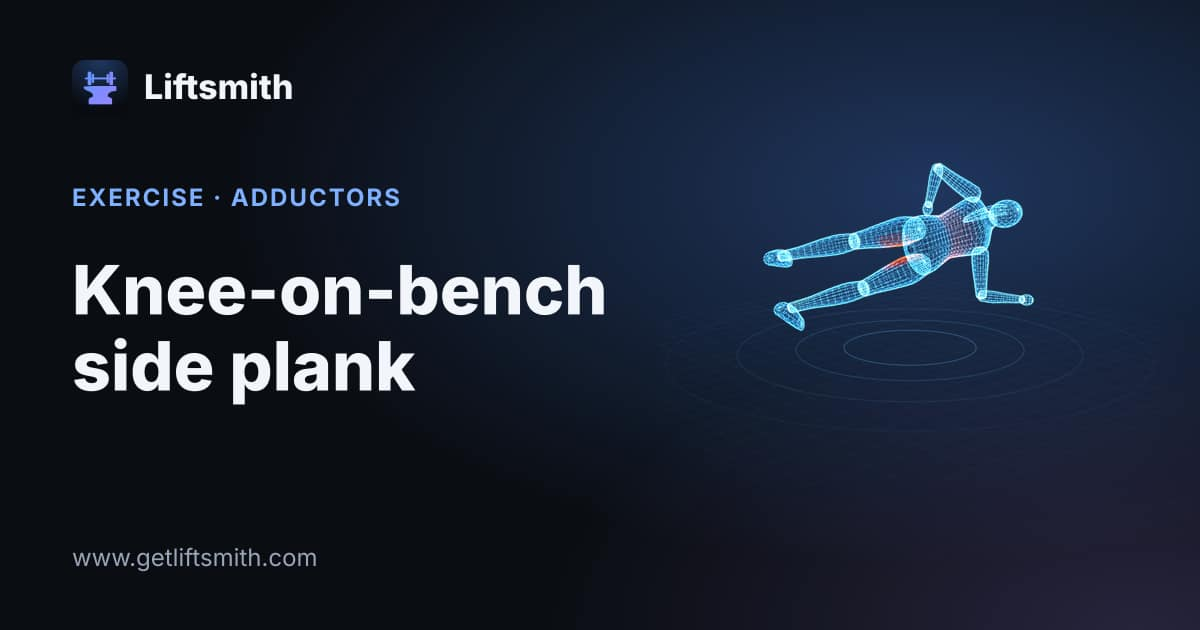
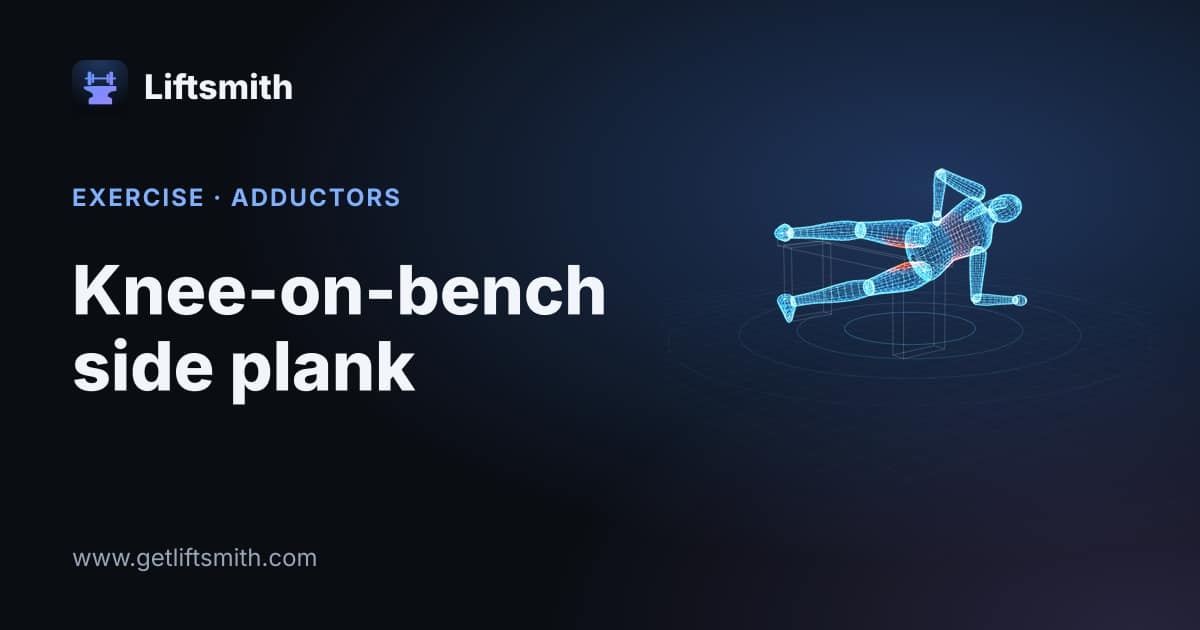
Copenhagen planks lie on a bench: top leg on the pad, hips lift into a line
Both Copenhagen planks played a plain side plank with no bench. A new
copenhagen motion lies on the left forearm with the top ankle (or knee, for
the short lever) on a flat bench drawn across the body; the hips lift from
the floor into a straight line while the bottom leg rises to the underside
of the pad. Redrew both stills and link previews, emptied the LATER list in
swapLooks.test.ts and added a test that the contact stays on the pad.

Claude-Session: https://claude.ai/code/session_01AL1UF9AFWKs291fhJo2agj

Changed region(s): [[0.6167, 0.2413, 0.8633, 0.5429], [0.74, 0.5429, 0.7708, 0.573]]

diff --git a/src/lib/demo/motions.ts b/src/lib/demo/motions.ts
@@ -12,6 +12,7 @@ import {
   mul,
   norm,
   rad,
+  solve,
   sub,
   TEMPO,
   V,
@@ -1741,6 +1742,88 @@ function sidePlank(o: { lift?: boolean }): Motion {
       };
     },
     roll: (d) => -90 + (o.lift ? lerp(6, 16, d) : 14 + 1.5 * d),
+  };
+}
+
+/**
+ * Copenhagen plank: a side plank on the bottom forearm with the top leg on a flat bench, the ankle on
+ * the pad (`knee` puts the knee there instead, the short lever). The hips start low and lift into a
+ * straight line while the bottom leg rises to the underside of the pad. Drawn on its left side like the
+ * side-lying moves (roll -90, so the pose's z is height), with the bench across the body under the top
+ * leg and the bottom leg passing under it. The foot or knee stays put on the pad; the shoulder rides a
+ * little over the elbow as the hips drop.
+ */
+function copenhagen(o: { knee?: boolean } = {}): Motion {
+  const benchH = 0.45,
+    padT = 0.07;
+  const pose = (B: Body, d: number): Pose => {
+    const S = 0; // the shoulder line's height
+    const elbowZ = S - (B.shW + B.upper * 0.97);
+    const floor = elbowZ - 0.05;
+    const top = floor + benchH;
+    const leg = legMax(B);
+    // the contact on the pad (ankle or knee) and how far it is from the hip joint
+    const reachC = o.knee ? B.thigh : leg;
+    const cZ = top + (o.knee ? 0.06 : 0.05);
+    // the straight line at the top: shoulder, hip and contact in one line
+    const uz = (cZ - B.hipW - S) / (B.torso + reachC);
+    const uy = -Math.sqrt(1 - uz * uz);
+    const shY = standY(B, 0) + B.torso;
+    const hipTop = V(0, shY + uy * B.torso, S + uz * B.torso);
+    const c = V(0, hipTop[1] + uy * reachC, cZ);
+    // the hips sag toward the floor at d = 0 and lift into the line at d = 1
+    const hipZ = lerp(floor + 0.14 + B.hipW, hipTop[2], d);
+    const dzc = cZ - (hipZ + B.hipW);
+    const hipY = c[1] + Math.sqrt(Math.max(0.01, reachC * reachC - dzc * dzc));
+    const hip = V(0, hipY, hipZ);
+    const dzs = S - hipZ;
+    const sh = V(0, hipY + Math.sqrt(Math.max(0.01, B.torso * B.torso - dzs * dzs)), S);
+    // the top leg: the ankle on the pad, or the shin lying on past the knee
+    const ankleR = o.knee ? add(c, mul(norm(V(0, -1, 0.05)), B.shin)) : c;
+    // bend the knee toward the pad's contact, so it lands right on it whatever the hips do
+    const hipR = V(0, hipY, hipZ + B.hipW);
+    // the bottom leg: low by the floor, then up under the pad
+    const hipL = V(0, hipY, hipZ - B.hipW);
+    const footZ = lerp(floor + 0.07, top - padT - 0.06, d);
+    const dzl = hipL[2] - footZ;
+    const ankleL = V(0, hipY - Math.sqrt(Math.max(0.01, (leg * 0.99) ** 2 - dzl * dzl)), footZ);
+    return {
+      hip,
+      sh,
+      ankle: per(ankleL, ankleR),
+      kneePole: per(V(1, 0, 0), o.knee ? sub(c, lerpV(hipR, ankleR, 0.5)) : V(1, 0, 0)),
+      foot: 20,
+      // the bottom forearm flat on the floor under the shoulder, the top hand on the hip
+      hand: per(V(B.fore * 0.92, shY + 0.02, elbowZ), V(0.03, hipY + 0.08, hipZ + B.hipW + 0.12)),
+      elbowPole: per(V(0, 0, -1), V(-0.4, 0, 1)),
+      headBlend: 0,
+    };
+  };
+  return {
+    phases: TEMPO.liftFirst("Lift the hips · 1s", "Lower · 2s", "Low", "Hold"),
+    load: "none",
+    stance: 0.05,
+    pose,
+    roll: () => -90,
+    props: (B) => {
+      // where the floor really is: the lowest joint over the rep, as placement() finds it
+      let low = Infinity;
+      for (let i = 0; i <= 8; i++) {
+        const J = solve(pose(B, i / 8), B, { stance: 0.05, grip: 0.25 }) as unknown as Record<string, Vec>;
+        for (const k of Object.keys(J)) if (k !== "headDir" && J[k]) low = Math.min(low, J[k]![2]);
+      }
+      const floor = low - 0.05;
+      const p = pose(B, 1);
+      const top = p.sh[2] - (B.shW + B.upper * 0.97) - 0.05 + benchH;
+      const y = o.knee ? (p.ankle as { R: Vec }).R[1] + B.shin * 0.97 : (p.ankle as { R: Vec }).R[1];
+      const legH = top - padT - floor;
+      // a flat bench across the body: the pad under the top leg, a leg at each end clear of the bottom leg
+      return [
+        { kind: "box", at: V(0, y, top - padT / 2), size: V(1.1, 0.3, padT) },
+        { kind: "box", at: V(-0.48, y, floor + legH / 2), size: V(0.08, 0.26, legH) },
+        { kind: "box", at: V(0.48, y, floor + legH / 2), size: V(0.08, 0.26, legH) },
+      ];
+    },
   };
 }
 
@@ -6631,7 +6714,7 @@ const MOTIONS: Record<string, () => Motion> = {
   "hip-thrust": () => bridge({ bench: true, bar: true }),
   "single-leg-hip-thrust": () => bridge({ bench: true, single: true }),
   "cable-pull-through": pullThrough,
-  "copenhagen-plank": () => ({ ...sidePlank({ lift: true }), props: undefined }),
+  "copenhagen-plank": () => copenhagen(),
   "cossack-squat": cossack,
   "standing-calf-raise": () => calfRaise({ machine: true, step: true, load: "none" }),
   "db-calf-raise": () => calfRaise({ single: true, step: true, load: "dumbbell", hold: "R" }),
@@ -6998,7 +7081,7 @@ const MOTIONS: Record<string, () => Motion> = {
   "side-lying-adduction": () => sideLying("adduct"),
   "cable-hip-adduction": () => cableLeg({ move: "in" }),
   "plie-squat": () => squat({ hold: "arms" }),
-  "short-copenhagen-plank": () => ({ ...sidePlank({ lift: true }), props: undefined }),
+  "short-copenhagen-plank": () => copenhagen({ knee: true }),
   "single-leg-calf-raise": () => calfRaise({ single: true, load: "none" }),
   "db-seated-calf-raise": () => seatedCalfRaise({ load: "dumbbell" }),
   "bent-over-calf-raise": () => calfRaise({ step: true, load: "none" }),

diff --git a/src/lib/demo/swapLooks.test.ts b/src/lib/demo/swapLooks.test.ts
@@ -53,8 +53,6 @@ describe("each exercise's own gear in the demo", () => {
 describe("the gear each exercise needs is drawn", () => {
   // Melvin, 2026-11-14: "Make sure exercises with walls have them, door frame exercises have a door frame,
   // kettle bells, dumbbells, barbells, cables, etc have what they say they do"
-  /** Still drawn without their bench or box until their posture is redone (seated, side-lying, chest-down). */
-  const LATER = new Set(["copenhagen-plank", "short-copenhagen-plank"]);
   function missing(id: string, needs: readonly string[]): string[] {
     const m = motionFor(id);
     const kinds = new Set(props(id).map((p) => p.kind));
@@ -77,15 +75,33 @@ describe("the gear each exercise needs is drawn", () => {
     return out;
   }
   it("draws every weight, cable, band, bar, bench, box, wall and rope the exercise needs, and nothing it doesn't", () => {
-    const wrong = EXERCISES.filter((e) => !LATER.has(e.id))
-      .map((e) => [e.id, missing(e.id, e.needs)] as const)
-      .filter(([, m]) => m.length);
+    const wrong = EXERCISES.map((e) => [e.id, missing(e.id, e.needs)] as const).filter(([, m]) => m.length);
     expect(wrong).toEqual([]);
   });
-  it("keeps the list of moves still waiting for their bench or box short", () => {
-    // remove an id from LATER once it draws its gear
-    const done = [...LATER].filter((id) => !missing(id, EXERCISES.find((e) => e.id === id)!.needs).length);
-    expect(done).toEqual([]);
+  it("puts the top leg of a Copenhagen plank on the bench, the bottom leg under it", () => {
+    for (const [id, contact] of [
+      ["copenhagen-plank", "ankleR"],
+      ["short-copenhagen-plank", "kneeR"],
+    ] as const) {
+      const m = motionFor(id);
+      expect(m.roll?.(0), id).toBe(-90); // on its side, so the pose's z is height
+      const [pad, ...legs] = props(id).filter((p) => p.kind === "box");
+      expect(pad && legs.length, id).toBe(2);
+      const padTop = pad!.kind === "box" ? pad!.at[2] + pad!.size[2] / 2 : 0;
+      const padBottom = padTop - (pad!.kind === "box" ? pad!.size[2] : 0);
+      const lows: number[] = [];
+      for (const d of [0, 0.25, 0.5, 0.75, 1]) {
+        const J = jointsAt(m, B, d) as unknown as Record<string, [number, number, number]>;
+        const c = J[contact]!;
+        // resting on the pad (a joint sits about 5 cm above what it rests on), and staying put over the rep
+        expect(c[2] - padTop, `${id} ${d}`).toBeGreaterThan(0.02);
+        expect(c[2] - padTop, `${id} ${d}`).toBeLessThan(0.09);
+        expect(Math.abs(c[1] - (pad!.kind === "box" ? pad!.at[1] : 0)), `${id} ${d}`).toBeLessThan(0.16);
+        expect(J.ankleL![2], `${id} ${d}`).toBeLessThan(padBottom); // the bottom leg passes under the pad
+        lows.push(J.hipL![2]);
+      }
+      expect(lows[4]! - lows[0]!, id).toBeGreaterThan(0.15); // the hips lift from low into the line
+    }
   });
   it("draws a landmine bar from the floor to the hands, and cables from a pulley", () => {
     for (const id of ["landmine-press", "landmine-row", "landmine-rotation", "landmine-squat"]) {

diff --git a/docs/decisions/training-engine.md b/docs/decisions/training-engine.md
@@ -20,5 +20,5 @@ Part of the decision record. [AGENTS.md](../../AGENTS.md) has the rules that app
 - **Units.** Weights are stored in kilograms; a gym's plates, bars and dumbbells are stored in the gym's unit and converted at the edges (`units.ts`).
 - **Every exercise draws its own gear and variation in the demo** (Melvin, 2026-11-12: swapping an exercise "doesn't seem to change the 3D animation to match", "different exercises with the same animations"). The 1,000 moves share a few dozen pose families, so 637 of the swap sheet's top-six pairs drew exactly the same thing. Two layers on top of `MOTIONS`, applied in `motionFor`: `equipmentMotion.ts` reads the exercise's `needs` and draws what it holds (dumbbells, a kettlebell, a medicine ball (a new `ball` load in both the 3D and 2D scenes), a bar racked on the back for barbell versions of bodyweight lunges and squats, nothing for bodyweight moves) and what's around it (bands from the feet, no handle bar on band moves, ring straps from overhead, Smith machine rails either side of the bar); `variantMotion.ts` reads the id: `-hold` moves hold still at the hard point, negatives lower over four seconds with a quick reset, and alternating moves work one arm or leg at a time. Tempo and paused lifts play their tempo (`tempoMotion.ts`, [Tempo coach](tempo-coach.md)). `swapLooks.test.ts` counts the look-alike pairs left as a ratchet (146 since 2026-11-14, was 293: mostly true twins such as steady and interval cardio or jump rope styles, plus close cousins still sharing a pose); lower it as moves get their own motions, never raise it. Shared web code, so Android, iOS and the web get it together.
 - **Planks and crawls that move get their own motions** (Melvin, 2026-11-13: the sideways plank walk "is wrong"; it played the forearm plank holding still). `motions.ts` has two four-point bases, a straight-armed high plank (`highPlankBase`) and the bear position with the knees hovering (`bearBase`), plus `stepper`, which moves hands and feet in turn (each step its own phase, the moving hand or foot lifting in a small arc, the body following by half a step and the travel centred so the camera frames it). The sideways plank walk is a high plank where the hand and foot on one side step out together and the others follow, hips level, two steps right and two back; the sideways bear crawl does the same in the bear position, and the backward bear crawl steps opposite hand and foot back two strides and returns. Also given their own motions the same day, because they borrowed a different move: plank jacks (feet jump wide and in, they played mountain climbers), high plank (on the hands, it showed the forearm plank), bear plank (a still hold, it crawled), plank and bear plank shoulder taps, plank up-downs (forearms to hands one arm at a time), plank leg lifts, the plank saw and the side plank hip drop. `swapLooks.test.ts` checks each one moves the way its name says. Shared web code, so Android, iOS and the web get the same animation.
-- **Animation audit, 2026-11-14** (Melvin: "please do an audit of all the other animations", then "Fix all, in batches"). Every move's joints were drawn as stick-figure contact sheets and compared with its name; about 100 borrowed a family motion that shows a different exercise. They are being fixed family by family. **Walks that travel** (batch 1): `standWalk` steps the feet in turn with the hips riding halfway between them, so band lateral and forward walks, the side shuffle, the lateral squat walk, the squat (duck) walk and the sideways sled drag travel and come back instead of playing cossack squats or squat reps in place; band walks draw the band between the knees; `skater` jumps from one leg to the other with the free leg swept behind (skater jumps, side bounds); the crab walk is a face-up tabletop stepping opposite hand and foot (it was a glute bridge); backward treadmill walking and the backward elliptical play their loop in reverse (`backwards`). **Floor positions** (batch 2): the reverse plank is face up on straight arms (`reversePlankBase`); bridge walkouts walk the heels out one foot at a time and slider leg curls slide them (`bridgeWalkout`); side-lying leg raises, bottom-leg adduction and band clamshells lie flat on the side (`sideLying`, rolled -90°); the knee plank, ring plank, planche lean, incline plank, tuck planche and frog stand have their own holds; plank reaches, pull-throughs and plank drags move one hand at a time (`oneHand`, which shoulder taps now use); the plank hip twist rocks the hips to each side; the body saw rocks like the plank saw; handstands stack over the hands (`handstandBase`, a wall behind for wall holds and handstand push-ups); the wall walk walks the feet up a wall; the Hindu push-up swoops from a pike into an upward dog; plank to pike and slider pikes fold the hips up; the pike shoulder tap taps from the pike. **Push-up variations** (batch 3): clap push-ups leave the floor and clap; spiderman push-ups bring a knee to the elbow on each rep; archer and ring archer push-ups lower to one hand; typewriter push-ups slide side to side at the bottom; one-arm push-ups keep the free hand on the lower back with the feet wide; shoulder-tap push-ups tap at the top; hand-release push-ups lift the hands at the bottom; ring flys open the arms; bodyweight skull crushers and ring triceps extensions lean into a bar or the rings and bend the elbows overhead. **Jumps and hops** (batch 4): `hop` dips, flies and lands soft, twice a loop, and each jump gets its own look: the broad jump and frog jump travel forward and walk back (the frog jump touches the floor at the bottom), lateral hops and line hops go side to side, single-leg hops keep the other foot up behind, squat jacks and in-and-out jumps land wide then narrow, the tuck jump pulls the knees up, and the squat jump with a half turn turns in the air (a new `yaw` on a motion turns the whole figure about the vertical axis, in 3D, 2D and the stills). Jump rope styles hop with the hands turning the rope at the hips (two turns a jump for double-unders, crossed hands for crossovers, a light skip foot to foot for the boxer skip) instead of playing calf raises; jumping lunges switch legs in the air, curtsy lunges step behind and across, butt kicks fold each heel up to the glutes, and skater and shrimp squats lower the back knee to the floor on one leg (the shrimp holding its back foot). **Hangs, one-leg squats and lifts** (batch 5): bar moves turn the body around the bar from key poses (`barKeys`): muscle-ups and ring muscle-ups pull high, lean the chest over and press out to support; skin the cat tucks and turns over to a German hang; the tuck front lever swings up level, face up, and holds; windshield wipers swing the raised legs from side to side; archer pull-ups pull up to one hand and typewriter pull-ups slide across at the top (`sidePullUp`). The power clean pulls from the floor before the clean (`powerClean`); the overhead squat holds the bar locked out overhead; pistols, box pistols and assisted pistols squat on one leg with the other held out in front (`pistol`); the wall sit and one-leg wall sit slide down a wall and hold (`wallSit`); the sissy squat rises on the toes and leans back with the knees forward; dumbbell, barbell and kettlebell pullovers lie on a bench and arc the weight behind the head (`pullover`); and the medicine ball slam reaches overhead and slams the ball down (`ballSlam`). **The rest** (batch 6): triceps kickbacks (dumbbell, band and cable) pin the upper arm along the side and straighten the forearm back; the sled drag walks backwards, the sled pull goes hand over hand and the sled row rows it in, each with the sled and its strap (`sledPull`); tibialis raises lean on a wall and lift the toes; the fire hydrant lifts the bent knee out to the side; cable hip abduction, adduction and the standing leg curl move the leg out, across and up behind (`cableLeg`); side bends tip the trunk sideways (dumbbell, kettlebell and cable), and the standing oblique crunch brings an elbow to a knee lifting out to the side (`sideBend`); shadow boxing throws a jab and a cross from a fighting stance; ring and slider knee tucks bring both knees in together; the medicine ball chest pass punches the ball out; the seated dip machine presses the handles down; heel slides slide one heel out at a time; the dumbbell devil press goes down to a push-up and snatches both dumbbells overhead; the kettlebell figure eight passes the bell around the legs; the Pallof squat and reverse lunge hold the press out while squatting or stepping back; the hammer curl to press curls then presses; and ring curls, face pulls, Y raises and reverse flys lean back from the straps (`ringLean`). Ring straps the gear layer draws give way to a motion's own straps, so ring rows and ring knee tucks don't show two sets. **One-arm moves** (Melvin, 2026-11-14: the one-arm dumbbell bench press pressed with both hands): any id with "one-arm" or "single-arm" works the right arm only, the left hand resting on the hip (on the bench beside it when lying), holding the weight in the right hand and dropping a strap, cable or band to the resting hand (`oneArm` in `variantMotion.ts`); moves that already keep the left hand still are left alone, and landmine moves keep both hands on the bar. **More push-up variations** (Melvin, 2026-11-14: "different variations of push ups all look the same"): `pushUp` takes the knee push-up (shins on the floor, pivoting at the knees), the deficit push-up (hands on two blocks, the chest sinking below them), the staggered push-up (one hand ahead), the pseudo planche push-up (hands back by the waist, shoulders past them), the push-up with rotation (a reach to the ceiling after each rep), the scapular push-up (straight arms, only the shoulder blades move) and the medicine ball push-up (hands on the ball); the wall push-up stands and leans into a wall (`wallPushUp`). **Combos and Olympic lifts** (batch 7; Melvin: "Clean and jerk doesn't have the jerk movement", "Split jerk doesn't split", and moves with two parts should do both): `jerk` dips, drives and drops under the bar into a split (front foot forward, back heel up) or a quarter squat for the push jerk, recovers and lowers to the rack; the clean and jerk is the power clean from the floor into that split jerk (`cleanAndJerk`); the power and hang snatch pull the bar on a wide grip straight past the face to overhead in one move (`snatch`); kettlebell and dumbbell clean and press clean to the rack then press (`cleanAndPress`); the cable squat to row squats, stands and rows the handle in with the cable drawn (`squatToRow`); the one and a half squat goes down, halfway up and down again; and `burpee` takes its finish from the name: a jump to a bar and a pull-up, a tuck jump, a sprawl with the hips on the floor, or just standing (half burpee, squat thrust, plank to squat, and the kettlebell burpee deadlift standing up with the bells). The standing knee to elbow uses the standing crunch. **Moves that travel** (batch 8; Melvin: "Everything with sideways should move that way, same with forwards or backwards"): walking lunges step forward into a lunge, drive through into the next one, bring the feet together, turn around and lunge back (`walkingLunge`; the turn pivots on the spot through the motion's `yaw`, the pose shifted against it so the lifter stays put), and the forward lunge steps forward and pushes back; the bear crawl crawls forward and back; the sideways bear crawl and plank walk take three bigger steps each way; the carioca travels sideways crossing in front and behind (`carioca`); lateral step-ups have the box to the right (`lateralStepUp`), the lateral box jump jumps onto a box to the side, and the lateral burpee jumps sideways after each rep, alternating sides. `swapLooks.test.ts` checks every lateral or sideways walk, crawl, shuffle, bound, hop, jump, burpee and drag travels sideways more than forward, and every walking, forward or backward lunge or crawl travels forward. **Battle ropes** (batch 9; Melvin: "the role is just a straight line … ropes moving like a real rope in a sine wave formation"): a new `rope` prop (`RopeProp`, `ropePoints` in `rig.ts`) draws each rope from the hand to an anchor on the floor ahead as a travelling sine wave that swells a little along the rope, sags to the floor in the middle and ends on the anchor. The hand circles a centre the prop knows, and where it is on that circle sets the wave's phase, so the wave rolls down the rope in step with the hands without a clock of its own, in 3D, 2D and the stills alike. `battleRopes` takes the style from the name: alternating waves (hands out of step), double waves (together), slams (high and low with a dip of the hips), circles (hands turning outwards) and side slams (both hands side to side, the waves running sideways); rope jumping jacks hold the ropes too. **Incline and decline benches** (batch 10; Melvin: "decline exercises don't look declined"): `onBench` turns a lying move's upper body, hands and bar with the bench about the hips, so incline skull crushers and flys lean back at 30° and decline presses and flys lie head down at 18° with the hips raised, the knees hooked over a roller and the decline bench drawn as one long pad on two posts with a roller frame at the high end (`anglePads`), and decline presses start straight up over the shoulders and lower to the chest (`onBench(…, { press: true })`, Melvin: "The decline benches look messed up"); decline sit-ups and crunches curl up from a decline bench (`declineSitUp`); the incline machine press pushes up and out; the incline front raise lies back on an incline seat raising the arms to the ceiling; the incline shrug shrugs chest-down on the bench; incline treadmill walks and runs tilt the belt (`uphill`). **Bands on presses** (Melvin: "The band is supposed to go from one hand, across the back, to the other hand"): on horizontal presses (banded push-ups, band chest presses) the gear layer runs each band from the hand to a point off the upper back (the `upperBack` anchor) instead of from the feet. **Wall walk**: the feet now step up the wall and the hands step in one at a time (left foot, right foot, left hand, right hand), each lifting as it moves, with the balls of the feet on the wall and the toes pointing down (Melvin: "Feet are facing the wrong way on the wall walks"). **Hip thrusts** (Melvin: the single-leg one's free leg looked backwards, the upper back should be higher on the bench, arms out flat on it): `bridge` puts the shoulder blades on the bench's edge with the arms out along it, the single-leg free leg held straight out in front, and the hands on the weight (`onHips`) for dumbbell and kettlebell thrusts and bridges; the barbell glute bridge holds a bar. **The gear each exercise needs** (batch 11; Melvin: "Make sure exercises with walls have them, door frame exercises have a door frame, kettle bells, dumbbells, barbells, cables, etc have what they say they do"): barbell and Smith shrugs hold a bar on the front of the thighs, the trap bar shrug a trap bar and the cable shrug two handles from the low pulleys (`shrug`); the seal row lies flat on a high bench pulling a barbell, and chest-supported row machines hold the machine's handles (`chestSupportedRow`); the EZ bar overhead extension holds an EZ bar and cable overhead extensions a rope from the low pulley behind (`overheadExtension`); trap bar split squats and jumps hold a trap bar at the sides (`asTrapBar`). Landmine moves draw the landmine: a bar from a pivot on the floor ahead to the hands, with a plate on the sleeve (a new `pole` prop, `poleSegments` in `rig.ts`, in 3D, 2D and the stills), instead of a level barbell or a handle. Any cable move whose motion has no cable of its own gets one from a pulley in line with the pull, beyond where the hardest phase starts (low and a step ahead for standing moves that pull the hands straight down), with the cable reverse crunch strapped to the ankles and the cable dead bug pulled from behind the head (`pulleyCables` in `equipmentMotion.ts`). The deficit deadlift stands on a low platform, the elevated pike push-up has the feet on a box and the deficit pike push-up the hands on blocks; bench leg raises, bench reverse crunches, dragon flags and the bird dog row are on a bench (`onFlatBench`); the wall ball, wall slide, med ball wall sit-up and wall handstand shoulder tap have their wall, and the wall sit calf raise lifts the heels from a wall sit. `swapLooks.test.ts` checks every exercise draws the weights, cables, bands, straps, bars, benches, boxes, walls and ropes its equipment lists and none it doesn't, with a short list (`LATER`) of seated, side-lying and chest-down moves still waiting for their bench, which must only shrink. **Kneeling, seated and chest-down moves, and machines** (batch 12; Melvin: "kneeling cable flys don't have the person kneeling check all kneeling exercises", "machine shoulder press doesn't look like a machine especially the handles"): `kneel` drops a standing move onto the knees, tall kneeling (both shins flat, toes tucked) or half kneeling (left foot planted ahead, right knee down), for kneeling cable flys, face pulls, Pallof presses, chops, rows, the lat pulldown, overhead extensions and dumbbell, kettlebell and landmine presses. Curls take a seated posture (seated dumbbell curl) and a chest-down one on an incline bench (spider curls); seated calf raises sit with the weight or the machine's pad on the knees (`seatedCalfRaise`, the seated calf raise machine used to play a standing one); the seated rear delt raise leans over the thighs on a bench; the seated good morning hinges from a bench with the bar on the back; feet-up glute bridges and the single-leg hamstring bridge put the heels on a bench; the bench reverse hyper lies face down and swings the legs up (`reverseHyper`); and the front-foot-elevated split squat and deficit reverse lunge stand the front foot on a step (`frontFootUp`). Machines draw lever arms from a pivot to each handle (a `pole` with no plate), an upright frame and a weight stack, with no bar across the hands (`onMachine`): the shoulder, chest and incline machine presses and the machine lateral raise; one-arm machines draw one lever, the free hand on the thigh. The side-lying lateral raise and side-lying external rotation lie on the left side along a flat bench, the top arm raising the dumbbell to the ceiling or turning it out with the elbow pinned (`sideLyingArm`; a rolled figure can rest on a bench top with `restOn`); the dumbbell kickback braces the free hand on a bench; and the barbell rollout rolls out on a loaded bar (`abWheel({ bar: true })`). Only the two Copenhagen planks still wait for their bench.
+- **Animation audit, 2026-11-14** (Melvin: "please do an audit of all the other animations", then "Fix all, in batches"). Every move's joints were drawn as stick-figure contact sheets and compared with its name; about 100 borrowed a family motion that shows a different exercise. They are being fixed family by family. **Walks that travel** (batch 1): `standWalk` steps the feet in turn with the hips riding halfway between them, so band lateral and forward walks, the side shuffle, the lateral squat walk, the squat (duck) walk and the sideways sled drag travel and come back instead of playing cossack squats or squat reps in place; band walks draw the band between the knees; `skater` jumps from one leg to the other with the free leg swept behind (skater jumps, side bounds); the crab walk is a face-up tabletop stepping opposite hand and foot (it was a glute bridge); backward treadmill walking and the backward elliptical play their loop in reverse (`backwards`). **Floor positions** (batch 2): the reverse plank is face up on straight arms (`reversePlankBase`); bridge walkouts walk the heels out one foot at a time and slider leg curls slide them (`bridgeWalkout`); side-lying leg raises, bottom-leg adduction and band clamshells lie flat on the side (`sideLying`, rolled -90°); the knee plank, ring plank, planche lean, incline plank, tuck planche and frog stand have their own holds; plank reaches, pull-throughs and plank drags move one hand at a time (`oneHand`, which shoulder taps now use); the plank hip twist rocks the hips to each side; the body saw rocks like the plank saw; handstands stack over the hands (`handstandBase`, a wall behind for wall holds and handstand push-ups); the wall walk walks the feet up a wall; the Hindu push-up swoops from a pike into an upward dog; plank to pike and slider pikes fold the hips up; the pike shoulder tap taps from the pike. **Push-up variations** (batch 3): clap push-ups leave the floor and clap; spiderman push-ups bring a knee to the elbow on each rep; archer and ring archer push-ups lower to one hand; typewriter push-ups slide side to side at the bottom; one-arm push-ups keep the free hand on the lower back with the feet wide; shoulder-tap push-ups tap at the top; hand-release push-ups lift the hands at the bottom; ring flys open the arms; bodyweight skull crushers and ring triceps extensions lean into a bar or the rings and bend the elbows overhead. **Jumps and hops** (batch 4): `hop` dips, flies and lands soft, twice a loop, and each jump gets its own look: the broad jump and frog jump travel forward and walk back (the frog jump touches the floor at the bottom), lateral hops and line hops go side to side, single-leg hops keep the other foot up behind, squat jacks and in-and-out jumps land wide then narrow, the tuck jump pulls the knees up, and the squat jump with a half turn turns in the air (a new `yaw` on a motion turns the whole figure about the vertical axis, in 3D, 2D and the stills). Jump rope styles hop with the hands turning the rope at the hips (two turns a jump for double-unders, crossed hands for crossovers, a light skip foot to foot for the boxer skip) instead of playing calf raises; jumping lunges switch legs in the air, curtsy lunges step behind and across, butt kicks fold each heel up to the glutes, and skater and shrimp squats lower the back knee to the floor on one leg (the shrimp holding its back foot). **Hangs, one-leg squats and lifts** (batch 5): bar moves turn the body around the bar from key poses (`barKeys`): muscle-ups and ring muscle-ups pull high, lean the chest over and press out to support; skin the cat tucks and turns over to a German hang; the tuck front lever swings up level, face up, and holds; windshield wipers swing the raised legs from side to side; archer pull-ups pull up to one hand and typewriter pull-ups slide across at the top (`sidePullUp`). The power clean pulls from the floor before the clean (`powerClean`); the overhead squat holds the bar locked out overhead; pistols, box pistols and assisted pistols squat on one leg with the other held out in front (`pistol`); the wall sit and one-leg wall sit slide down a wall and hold (`wallSit`); the sissy squat rises on the toes and leans back with the knees forward; dumbbell, barbell and kettlebell pullovers lie on a bench and arc the weight behind the head (`pullover`); and the medicine ball slam reaches overhead and slams the ball down (`ballSlam`). **The rest** (batch 6): triceps kickbacks (dumbbell, band and cable) pin the upper arm along the side and straighten the forearm back; the sled drag walks backwards, the sled pull goes hand over hand and the sled row rows it in, each with the sled and its strap (`sledPull`); tibialis raises lean on a wall and lift the toes; the fire hydrant lifts the bent knee out to the side; cable hip abduction, adduction and the standing leg curl move the leg out, across and up behind (`cableLeg`); side bends tip the trunk sideways (dumbbell, kettlebell and cable), and the standing oblique crunch brings an elbow to a knee lifting out to the side (`sideBend`); shadow boxing throws a jab and a cross from a fighting stance; ring and slider knee tucks bring both knees in together; the medicine ball chest pass punches the ball out; the seated dip machine presses the handles down; heel slides slide one heel out at a time; the dumbbell devil press goes down to a push-up and snatches both dumbbells overhead; the kettlebell figure eight passes the bell around the legs; the Pallof squat and reverse lunge hold the press out while squatting or stepping back; the hammer curl to press curls then presses; and ring curls, face pulls, Y raises and reverse flys lean back from the straps (`ringLean`). Ring straps the gear layer draws give way to a motion's own straps, so ring rows and ring knee tucks don't show two sets. **One-arm moves** (Melvin, 2026-11-14: the one-arm dumbbell bench press pressed with both hands): any id with "one-arm" or "single-arm" works the right arm only, the left hand resting on the hip (on the bench beside it when lying), holding the weight in the right hand and dropping a strap, cable or band to the resting hand (`oneArm` in `variantMotion.ts`); moves that already keep the left hand still are left alone, and landmine moves keep both hands on the bar. **More push-up variations** (Melvin, 2026-11-14: "different variations of push ups all look the same"): `pushUp` takes the knee push-up (shins on the floor, pivoting at the knees), the deficit push-up (hands on two blocks, the chest sinking below them), the staggered push-up (one hand ahead), the pseudo planche push-up (hands back by the waist, shoulders past them), the push-up with rotation (a reach to the ceiling after each rep), the scapular push-up (straight arms, only the shoulder blades move) and the medicine ball push-up (hands on the ball); the wall push-up stands and leans into a wall (`wallPushUp`). **Combos and Olympic lifts** (batch 7; Melvin: "Clean and jerk doesn't have the jerk movement", "Split jerk doesn't split", and moves with two parts should do both): `jerk` dips, drives and drops under the bar into a split (front foot forward, back heel up) or a quarter squat for the push jerk, recovers and lowers to the rack; the clean and jerk is the power clean from the floor into that split jerk (`cleanAndJerk`); the power and hang snatch pull the bar on a wide grip straight past the face to overhead in one move (`snatch`); kettlebell and dumbbell clean and press clean to the rack then press (`cleanAndPress`); the cable squat to row squats, stands and rows the handle in with the cable drawn (`squatToRow`); the one and a half squat goes down, halfway up and down again; and `burpee` takes its finish from the name: a jump to a bar and a pull-up, a tuck jump, a sprawl with the hips on the floor, or just standing (half burpee, squat thrust, plank to squat, and the kettlebell burpee deadlift standing up with the bells). The standing knee to elbow uses the standing crunch. **Moves that travel** (batch 8; Melvin: "Everything with sideways should move that way, same with forwards or backwards"): walking lunges step forward into a lunge, drive through into the next one, bring the feet together, turn around and lunge back (`walkingLunge`; the turn pivots on the spot through the motion's `yaw`, the pose shifted against it so the lifter stays put), and the forward lunge steps forward and pushes back; the bear crawl crawls forward and back; the sideways bear crawl and plank walk take three bigger steps each way; the carioca travels sideways crossing in front and behind (`carioca`); lateral step-ups have the box to the right (`lateralStepUp`), the lateral box jump jumps onto a box to the side, and the lateral burpee jumps sideways after each rep, alternating sides. `swapLooks.test.ts` checks every lateral or sideways walk, crawl, shuffle, bound, hop, jump, burpee and drag travels sideways more than forward, and every walking, forward or backward lunge or crawl travels forward. **Battle ropes** (batch 9; Melvin: "the role is just a straight line … ropes moving like a real rope in a sine wave formation"): a new `rope` prop (`RopeProp`, `ropePoints` in `rig.ts`) draws each rope from the hand to an anchor on the floor ahead as a travelling sine wave that swells a little along the rope, sags to the floor in the middle and ends on the anchor. The hand circles a centre the prop knows, and where it is on that circle sets the wave's phase, so the wave rolls down the rope in step with the hands without a clock of its own, in 3D, 2D and the stills alike. `battleRopes` takes the style from the name: alternating waves (hands out of step), double waves (together), slams (high and low with a dip of the hips), circles (hands turning outwards) and side slams (both hands side to side, the waves running sideways); rope jumping jacks hold the ropes too. **Incline and decline benches** (batch 10; Melvin: "decline exercises don't look declined"): `onBench` turns a lying move's upper body, hands and bar with the bench about the hips, so incline skull crushers and flys lean back at 30° and decline presses and flys lie head down at 18° with the hips raised, the knees hooked over a roller and the decline bench drawn as one long pad on two posts with a roller frame at the high end (`anglePads`), and decline presses start straight up over the shoulders and lower to the chest (`onBench(…, { press: true })`, Melvin: "The decline benches look messed up"); decline sit-ups and crunches curl up from a decline bench (`declineSitUp`); the incline machine press pushes up and out; the incline front raise lies back on an incline seat raising the arms to the ceiling; the incline shrug shrugs chest-down on the bench; incline treadmill walks and runs tilt the belt (`uphill`). **Bands on presses** (Melvin: "The band is supposed to go from one hand, across the back, to the other hand"): on horizontal presses (banded push-ups, band chest presses) the gear layer runs each band from the hand to a point off the upper back (the `upperBack` anchor) instead of from the feet. **Wall walk**: the feet now step up the wall and the hands step in one at a time (left foot, right foot, left hand, right hand), each lifting as it moves, with the balls of the feet on the wall and the toes pointing down (Melvin: "Feet are facing the wrong way on the wall walks"). **Hip thrusts** (Melvin: the single-leg one's free leg looked backwards, the upper back should be higher on the bench, arms out flat on it): `bridge` puts the shoulder blades on the bench's edge with the arms out along it, the single-leg free leg held straight out in front, and the hands on the weight (`onHips`) for dumbbell and kettlebell thrusts and bridges; the barbell glute bridge holds a bar. **The gear each exercise needs** (batch 11; Melvin: "Make sure exercises with walls have them, door frame exercises have a door frame, kettle bells, dumbbells, barbells, cables, etc have what they say they do"): barbell and Smith shrugs hold a bar on the front of the thighs, the trap bar shrug a trap bar and the cable shrug two handles from the low pulleys (`shrug`); the seal row lies flat on a high bench pulling a barbell, and chest-supported row machines hold the machine's handles (`chestSupportedRow`); the EZ bar overhead extension holds an EZ bar and cable overhead extensions a rope from the low pulley behind (`overheadExtension`); trap bar split squats and jumps hold a trap bar at the sides (`asTrapBar`). Landmine moves draw the landmine: a bar from a pivot on the floor ahead to the hands, with a plate on the sleeve (a new `pole` prop, `poleSegments` in `rig.ts`, in 3D, 2D and the stills), instead of a level barbell or a handle. Any cable move whose motion has no cable of its own gets one from a pulley in line with the pull, beyond where the hardest phase starts (low and a step ahead for standing moves that pull the hands straight down), with the cable reverse crunch strapped to the ankles and the cable dead bug pulled from behind the head (`pulleyCables` in `equipmentMotion.ts`). The deficit deadlift stands on a low platform, the elevated pike push-up has the feet on a box and the deficit pike push-up the hands on blocks; bench leg raises, bench reverse crunches, dragon flags and the bird dog row are on a bench (`onFlatBench`); the wall ball, wall slide, med ball wall sit-up and wall handstand shoulder tap have their wall, and the wall sit calf raise lifts the heels from a wall sit. `swapLooks.test.ts` checks every exercise draws the weights, cables, bands, straps, bars, benches, boxes, walls and ropes its equipment lists and none it doesn't, with no exceptions left (the `LATER` list of moves still waiting for their bench emptied on 2026-11-14). **Kneeling, seated and chest-down moves, and machines** (batch 12; Melvin: "kneeling cable flys don't have the person kneeling check all kneeling exercises", "machine shoulder press doesn't look like a machine especially the handles"): `kneel` drops a standing move onto the knees, tall kneeling (both shins flat, toes tucked) or half kneeling (left foot planted ahead, right knee down), for kneeling cable flys, face pulls, Pallof presses, chops, rows, the lat pulldown, overhead extensions and dumbbell, kettlebell and landmine presses. Curls take a seated posture (seated dumbbell curl) and a chest-down one on an incline bench (spider curls); seated calf raises sit with the weight or the machine's pad on the knees (`seatedCalfRaise`, the seated calf raise machine used to play a standing one); the seated rear delt raise leans over the thighs on a bench; the seated good morning hinges from a bench with the bar on the back; feet-up glute bridges and the single-leg hamstring bridge put the heels on a bench; the bench reverse hyper lies face down and swings the legs up (`reverseHyper`); and the front-foot-elevated split squat and deficit reverse lunge stand the front foot on a step (`frontFootUp`). Machines draw lever arms from a pivot to each handle (a `pole` with no plate), an upright frame and a weight stack, with no bar across the hands (`onMachine`): the shoulder, chest and incline machine presses and the machine lateral raise; one-arm machines draw one lever, the free hand on the thigh. The side-lying lateral raise and side-lying external rotation lie on the left side along a flat bench, the top arm raising the dumbbell to the ceiling or turning it out with the elbow pinned (`sideLyingArm`; a rolled figure can rest on a bench top with `restOn`); the dumbbell kickback braces the free hand on a bench; and the barbell rollout rolls out on a loaded bar (`abWheel({ bar: true })`). **Copenhagen planks** (2026-11-14, the last of the audit; they played a plain side plank with no bench): `copenhagen` lies on the left forearm with the top leg on a flat bench drawn across the body, the ankle on the pad for the Copenhagen plank and the knee on it, the shin lying on past it, for the short one. The hips start low by the floor and lift into a straight line from shoulder to bench while the bottom leg rises to the underside of the pad; the foot or knee stays put on the pad and the shoulder rides a little over the elbow. The bench has a leg at each end so the bottom leg passes under it, and stands on the floor wherever `placement` puts it. `swapLooks.test.ts` checks the contact stays on the pad, the bottom leg stays under it and the hips lift. Pure web code, so the 3D and 2D demos and the stills on Android, iOS and the web get it together.
 - **Which exercise for a muscle** (2026-11-13): a draw weighted by popularity, likes and swaps, per lifter. See [Pick weights](pick-weights.md).
